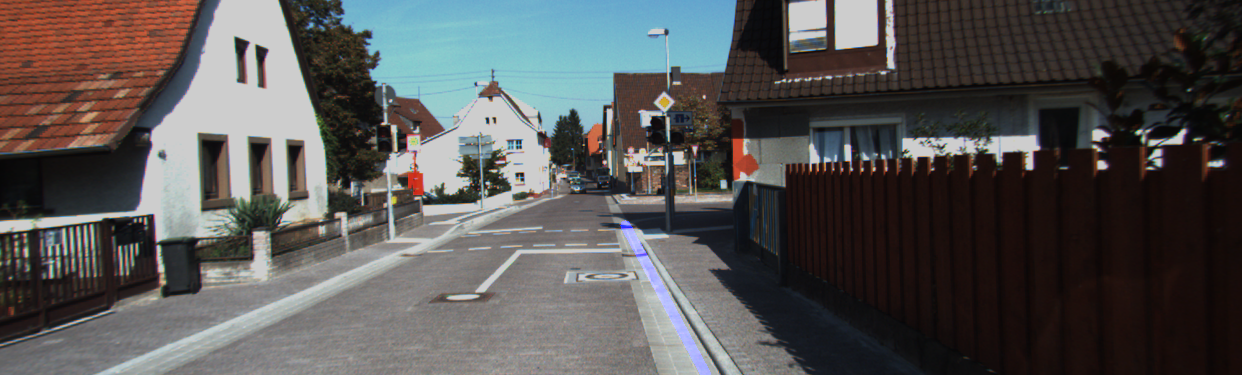
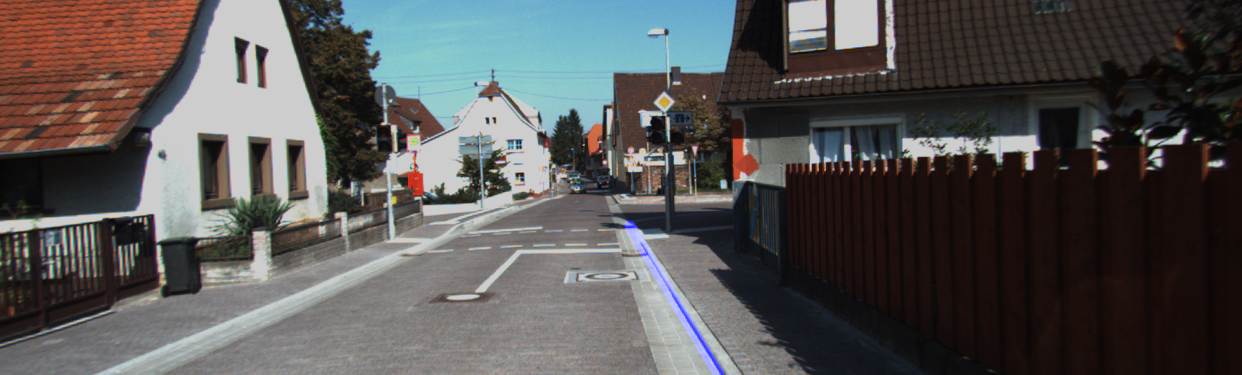
Final upload

Changed region(s): [[0.4895, 0.5867, 0.5813, 1.0]]

diff --git a/main.py b/main.py
@@ -14,7 +14,8 @@ import numpy as np
 
 # parameters
 slopecutoff = 0.5
-#image_name = "um_000006.png"
+image_num_max = 95
+image_prefix = "um"
 
 #image_path = "content/" + image_name
 #image1 = cv2.imread(image_path)
@@ -30,18 +31,54 @@ def Grey(image):
     return cv2.cvtColor(image, cv2.COLOR_RGB2GRAY)
 
 def White(hsv):
-    lower_white = np.array([0, 0, 128], dtype=np.uint8)
+    lower_white = np.array([0, 0, 80], dtype=np.uint8)
     upper_white = np.array([0, 0, 255], dtype=np.uint8)
 
     # Threshold the HSV image to get only white colors
     return cv2.inRange(hsv, lower_white, upper_white)
 
 def Yellow(hsv):
-    lower_yellow = np.array([15, 50, 127], dtype=np.uint8)
-    upper_yellow = np.array([25, 100, 255], dtype=np.uint8)
+    lower_yellow = np.array([20, 50, 127], dtype=np.uint8)
+    upper_yellow = np.array([32.5, 100, 255], dtype=np.uint8)
 
     # Threshold the HSV image to get only white colors
     return cv2.inRange(hsv, lower_yellow, upper_yellow)
+
+# Adjusts contrast and brightness of an image. 0 < contr < 1 is lower contrast and contr > 1 is higher contrast
+def autolevel(image, clip_hist_percent=1):
+    gray = cv2.cvtColor(image, cv2.COLOR_RGB2GRAY)
+
+    # Calculate grayscale histogram
+    hist = cv2.calcHist([gray], [0], None, [256], [0, 256])
+    hist_size = len(hist)
+
+    # Calculate cumulative distribution from the histogram
+    accumulator = []
+    accumulator.append(float(hist[0]))
+    for index in range(1, hist_size):
+        accumulator.append(accumulator[index - 1] + float(hist[index]))
+
+    # Locate points to clip
+    maximum = accumulator[-1]
+    clip_hist_percent *= (maximum / 100.0)
+    clip_hist_percent /= 2.0
+
+    # Locate left cut
+    minimum_gray = 0
+    while accumulator[minimum_gray] < clip_hist_percent:
+        minimum_gray += 1
+
+    # Locate right cut
+    maximum_gray = hist_size - 1
+    while accumulator[maximum_gray] >= (maximum - clip_hist_percent):
+        maximum_gray -= 1
+
+    # Calculate alpha and beta values
+    alpha = 255 / (maximum_gray - minimum_gray)
+    beta = -minimum_gray * alpha
+
+    auto_result = cv2.convertScaleAbs(image, alpha=alpha, beta=beta)
+    return auto_result
 
 # Apply Gaussian Blur --> Reduce noise and smoothen image
 def gauss(image):
@@ -53,12 +90,15 @@ def canny(image):
     edges = cv2.Canny(image, 50, 150)
     return edges
 
+def laplace(image):
+    edges = cv2.Laplacian(image, cv2.CV_16S, ksize=3)
+    return cv2.convertScaleAbs(edges)
 
 def region(image):
     height, width = image.shape
     # isolate the gradients that correspond to the lane lines
     triangle = np.array([
-        [(0, height), (int(width / 2), int(height / 4)), (width, height)]
+        [(int(width / 5), height), (int(width / 2), int(height / 3.5)), (int(width - width / 5), height)]
     ])
     # create a black image with the same dimensions as original image
     mask = np.zeros_like(image)
@@ -157,14 +197,24 @@ cv2(lanes)
 cv2.waitKey(0)
 '''
 
-def compute(image_path):
-    image1 = cv2.imread(image_path)
+def compute(image_name, show_image):
+    image1 = cv2.imread("content/" + image_name)
     copy = np.copy(image1)
-    grey = Grey(copy)
+
+    # First get greyscale light balance
+    #a = 255 / (grey.max() - grey.min())
+    #print("alpha val: " + str(a))
+    #b = grey.min() * -a
+    #copy = cv2.convertScaleAbs(copy, alpha=a, beta=b)
+    #copy = autolevel(copy, clip_hist_percent=0.95)
+
+    # Now go for edge detection
+    grey = gauss(Grey(copy))
     hsv = Hsv(copy)
-    white = White(hsv)
-    yellow = Yellow(hsv)
-    weighted = cv2.addWeighted(grey, 0.2, white, 1, 1)
+    white = gauss(White(hsv))
+    yellow = gauss(Yellow(hsv))
+
+    weighted = cv2.addWeighted(grey, 0.35, white, 1, 1)
     weighted = cv2.addWeighted(weighted, 1, yellow, 1, 1)
     # cv2.imshow("weighted", weighted)
     # gaus_grey = gauss(grey)
@@ -172,18 +222,34 @@ def compute(image_path):
     # gaus_yellow = gauss(yellow)
     # edges = canny(gaus_grey)
     edges = canny(weighted)
+    #edges = laplace(weighted)
     isolated = region(edges)
-    cv2.imshow("isolated", isolated)
-    lines = cv2.HoughLinesP(isolated, 2, np.pi / 180, 100, np.array([]), minLineLength=40, maxLineGap=5)
-    averaged_lines = average(copy, lines)
-    black_lines = display_lines(copy, averaged_lines)
-    lanes = cv2.addWeighted(copy, 0.8, black_lines, 1, 1)
-    cv2.imwrite("content/output/" + image_name, lanes)
-    cv2.waitKey(0)
+    if(show_image):
+        cv2.imshow("grey", grey)
+        cv2.imshow("isolated", isolated)
+        cv2.imshow("weighted", weighted)
+        cv2.waitKey(0)
 
-image_num = 10
-while image_num < 95 :
-    image_name = "um_0000" + str(image_num) + ".png"
-    image_path = "content/" + image_name
-    compute(image_path)
-    image_num += 1
+    lines = cv2.HoughLinesP(isolated, 2, np.pi / 180, 100, np.array([]), minLineLength=30, maxLineGap=20)
+    averaged_lines = average(copy, lines)
+    if averaged_lines.size != 0:
+        black_lines = display_lines(copy, averaged_lines)
+        lanes = cv2.addWeighted(copy, 0.8, black_lines, 1, 1)
+        cv2.imwrite("content/output/" + image_name, lanes)
+    else:
+        print("Solution null. No output for " + image_name)
+
+def batch():
+    image_num = 0
+    while image_num <= image_num_max:
+        if image_num < 10:
+            image_name = image_prefix + "_00000" + str(image_num) + ".png"
+        else:
+            image_name = image_prefix + "_0000" + str(image_num) + ".png"
+        #image_path = "content/" + image_name
+        compute(image_name, 0)
+        image_num += 1
+
+# Begin primary code
+#batch() # Processes images in batch (same prefix from 0 up until image_num_max)
+compute("um_000001.png", 1)
